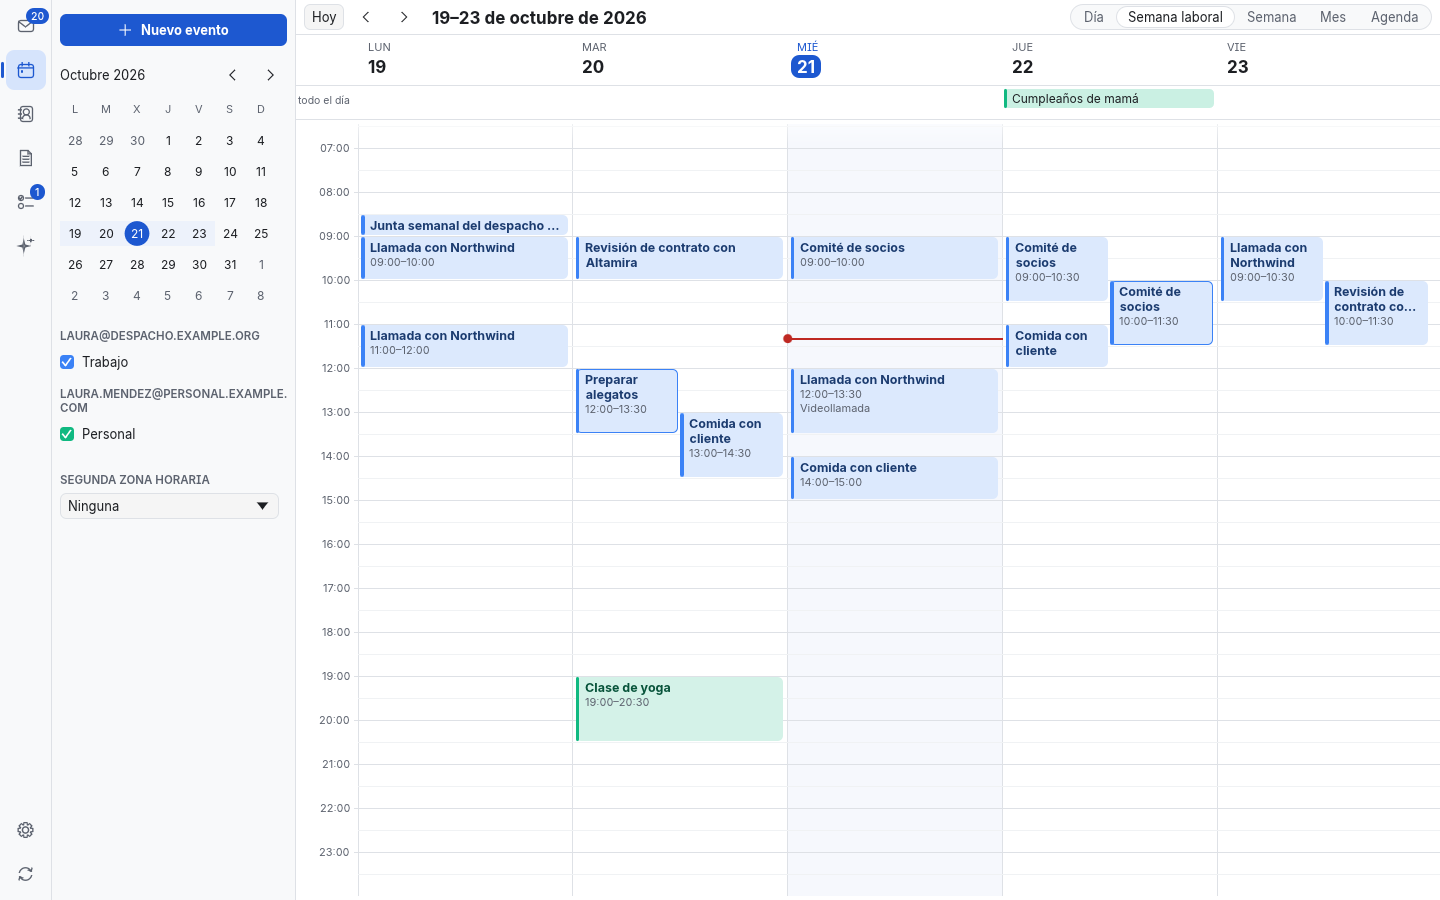
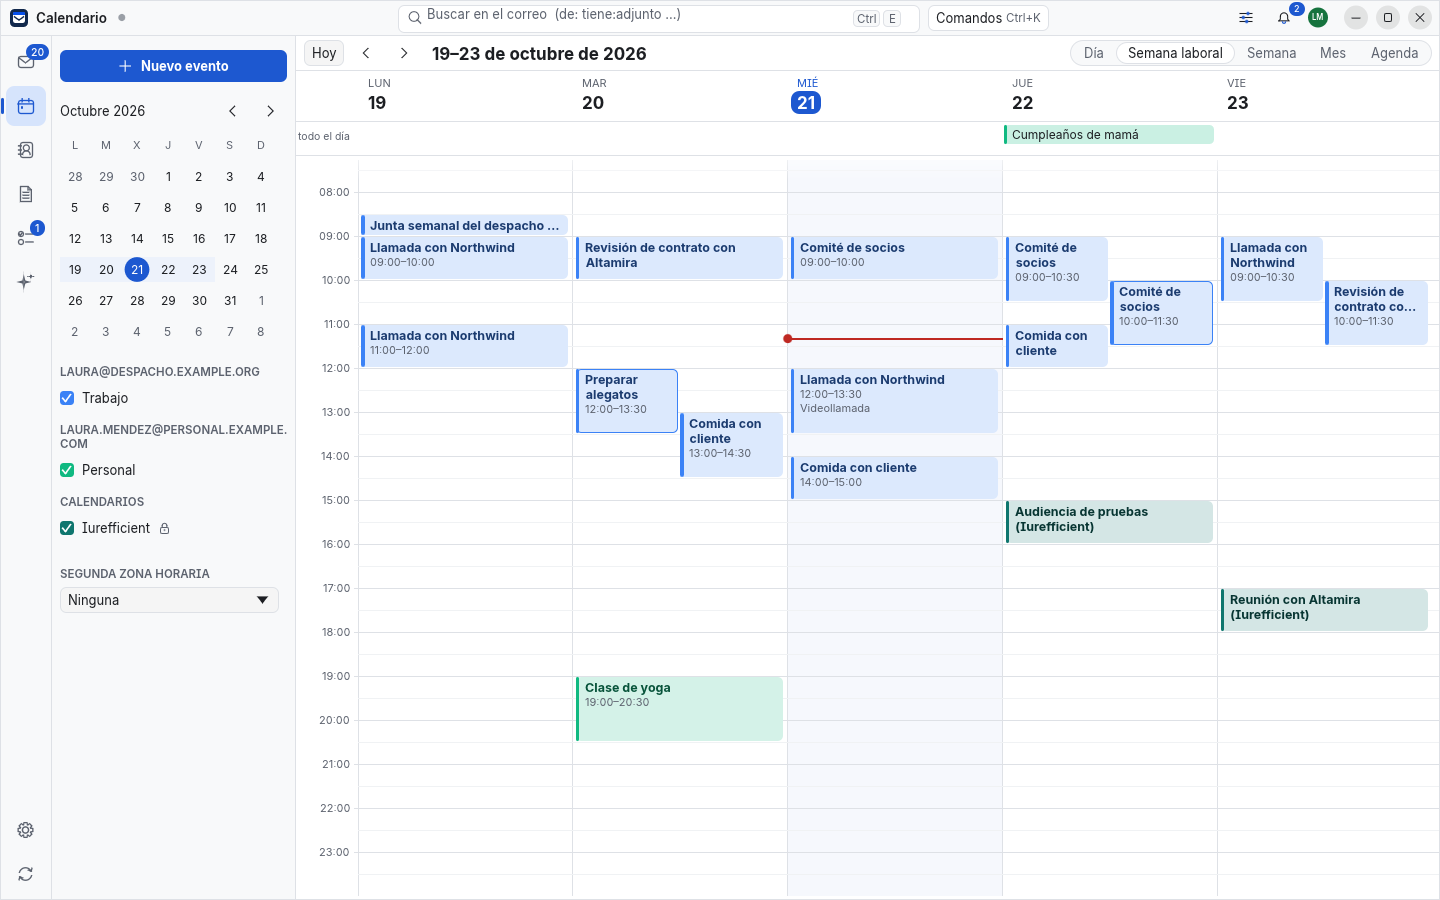
UI-HEADER: barra de título integrada (CSD) con búsqueda, Comandos, menú de tema/densidad y botones de ventana
Una fila de 40/36/32 px: marca, título de carpeta o módulo, punto de
sincronización, búsqueda y Comandos al centro, menú rápido, campana y
avatar de Iurefficient, y botones de ventana (Adwaita según button-layout
del portal XDG; Windows rectangulares; macOS con los semáforos nativos).
Arrastre, doble clic, menú de ventana, bordes de cambio de tamaño y borde
de 1 px. Preferencia «Barra de título del sistema» e
IUREDESK_NATIVE_DECORATIONS. Pruebas kittest y de button-layout; capturas.

diff --git a/crates/ui/src/header.rs b/crates/ui/src/header.rs
@@ -165,7 +165,7 @@ fn press(ctx: &Context, b: WindowButton) {
 
 /// Lo que se ve en el centro: ancho guardado del grupo de la derecha (del cuadro anterior).
 fn right_width_id() -> Id {
-    Id::new("iuredesk-header-right-width")
+    Id::unique("iuredesk-header-right-width")
 }
 
 /// La barra. `full` = con búsqueda y «Comandos» (no en la bienvenida).
@@ -179,7 +179,8 @@ pub(crate) fn show(app: &mut DeskApp, ui: &mut Ui, full: bool) {
     let frame = Frame::new().fill(c.surface_alt).inner_margin(Margin { left: 10, right: right_pad, top: 0, bottom: 0 });
     egui::Panel::top("app-header").exact_size(h).resizable(false).frame(frame).show(ui, |ui| {
         let inner = ui.max_rect();
-        let whole = Rect::from_min_max(pos2(inner.left() - 10.0, inner.top()), pos2(inner.right() + 8.0, inner.bottom()));
+        let whole =
+            Rect::from_min_max(pos2(inner.left() - 10.0, inner.top()), pos2(inner.right() + 8.0, inner.bottom()));
         // El fondo arrastra la ventana; los controles se agregan después y tienen prioridad.
         if chrome.is_some() {
             drag_area(ui, whole);
@@ -204,7 +205,11 @@ pub(crate) fn show(app: &mut DeskApp, ui: &mut Ui, full: bool) {
         }
         app_mark(&mut left, h);
         let title = app.header_title();
-        left.add(egui::Label::new(RichText::new(&title).font(theme::semibold_font(&ctx, 13.5)).color(c.text)).selectable(false).truncate());
+        left.add(
+            egui::Label::new(RichText::new(&title).font(theme::semibold_font(&ctx, 13.5)).color(c.text))
+                .selectable(false)
+                .truncate(),
+        );
         sync_dot(app, &mut left);
         let left_end = left.min_rect().right();
 
@@ -248,7 +253,7 @@ pub(crate) fn show(app: &mut DeskApp, ui: &mut Ui, full: bool) {
 /// Fondo de la barra: arrastrar mueve, doble clic maximiza, clic derecho abre el menú de ventana.
 fn drag_area(ui: &mut Ui, rect: Rect) {
     let ctx = ui.ctx().clone();
-    let resp = ui.interact(rect, Id::new("iuredesk-header-drag"), Sense::click_and_drag());
+    let resp = ui.interact(rect, Id::unique("iuredesk-header-drag"), Sense::click_and_drag());
     a11y::area(&resp, pick("Title bar", "Barra de título"));
     if resp.drag_started_by(PointerButton::Primary) {
         ctx.send_viewport_cmd(ViewportCommand::StartDrag);
@@ -292,7 +297,11 @@ fn app_mark(ui: &mut Ui, h: f32) {
     let card = Rect::from_min_max(at(144.0, 200.0), at(880.0, 840.0));
     p.rect_filled(card, 96.0 * k, Color32::WHITE);
     let band = Rect::from_min_max(at(144.0, 200.0), at(880.0, 376.0));
-    p.rect_filled(band, egui::CornerRadius { nw: (96.0 * k) as u8, ne: (96.0 * k) as u8, sw: 0, se: 0 }, iurefficient_ui::tokens::brand::BLUE);
+    p.rect_filled(
+        band,
+        egui::CornerRadius { nw: (96.0 * k) as u8, ne: (96.0 * k) as u8, sw: 0, se: 0 },
+        iurefficient_ui::tokens::brand::BLUE,
+    );
     p.add(egui::Shape::line(
         vec![at(248.0, 470.0), at(512.0, 660.0), at(776.0, 470.0)],
         Stroke::new((80.0 * k).max(1.2), navy),
@@ -341,11 +350,15 @@ fn search(app: &mut DeskApp, ui: &mut Ui, width: f32) {
         app.mail.focus_search = false;
         ui.memory_mut(|m| m.request_focus(search_id));
     }
-    let shortcut = iuredesk_engine::command::shortcut("mail.search", scheme).and_then(|c| crate::app::keyboard_shortcut(&c));
+    let shortcut =
+        iuredesk_engine::command::shortcut("mail.search", scheme).and_then(|c| crate::app::keyboard_shortcut(&c));
     let (text, hint) = if contacts {
         (&mut app.pim.contact_filter, pick("Find a person", "Buscar una persona"))
     } else {
-        (&mut app.mail.search, pick("Search mail  (from: has:attachment …)", "Buscar en el correo  (de: tiene:adjunto …)"))
+        (
+            &mut app.mail.search,
+            pick("Search mail  (from: has:attachment …)", "Buscar en el correo  (de: tiene:adjunto …)"),
+        )
     };
     let mut field = SearchField::new(text).id_salt(id_salt).hint(hint).desired_width(width);
     if let Some(s) = shortcut {
@@ -371,12 +384,9 @@ fn commands_button(app: &mut DeskApp, ui: &mut Ui) {
     let label = pick("Commands", "Comandos");
     let small = theme::small_font(&ctx);
     let r = ui.add(
-        egui::Button::new((
-            RichText::new(label).color(c.text),
-            RichText::new(&keys).font(small).color(c.text_muted),
-        ))
-        .fill(c.surface)
-        .stroke(Stroke::new(1.0, c.separator)),
+        egui::Button::new((RichText::new(label).color(c.text), RichText::new(&keys).font(small).color(c.text_muted)))
+            .fill(c.surface)
+            .stroke(Stroke::new(1.0, c.separator)),
     );
     a11y::button(&r, label);
     if r.on_hover_text(pick("Everything IureDesk can do", "Todo lo que IureDesk puede hacer")).clicked() {
@@ -528,14 +538,14 @@ pub(crate) fn window_frame(app: &DeskApp, ui: &mut Ui) {
     }
     let r = ctx.content_rect();
     let c = theme::colors(ui);
-    ctx.layer_painter(egui::LayerId::new(egui::Order::Foreground, Id::new("iuredesk-window-border"))).rect_stroke(
+    ctx.layer_painter(egui::LayerId::new(egui::Order::Foreground, Id::unique("iuredesk-window-border"))).rect_stroke(
         r,
         0.0,
         Stroke::new(1.0, c.separator),
         egui::StrokeKind::Inside,
     );
     for (i, (dir, rect, cursor)) in grips(r).into_iter().enumerate() {
-        let resp = ui.interact(rect, Id::new(("iuredesk-resize", i)), Sense::drag());
+        let resp = ui.interact(rect, Id::unique(("iuredesk-resize", i)), Sense::drag());
         if resp.hovered() || resp.dragged() {
             ctx.set_cursor_icon(cursor);
         }
@@ -592,7 +602,10 @@ mod tests {
         assert!(ButtonLayout::parse("tonterías").is_none());
         assert!(ButtonLayout::parse(&"close,".repeat(200)).is_none());
         assert!(ButtonLayout::parse(&":".repeat(40)).is_some_and(|l| l.left.is_empty() && l.right.is_empty()));
-        assert_eq!(WindowChrome::for_this_os(Some("")).layout.right.len(), if cfg!(target_os = "macos") { 0 } else { 3 });
+        assert_eq!(
+            WindowChrome::for_this_os(Some("")).layout.right.len(),
+            if cfg!(target_os = "macos") { 0 } else { 3 }
+        );
     }
 
     #[test]

diff --git a/crates/ui/src/pim.rs b/crates/ui/src/pim.rs
@@ -5,8 +5,7 @@ use egui::{Align, Rect, RichText, Sense, Stroke, Ui, pos2, vec2};
 use iuredesk_model::{ContactId, NoteId, Task, TaskListId};
 use iurefficient_ui::list::{Column, ListState, ListView};
 use iurefficient_ui::{
-    BadgeKind, EmptyState, Icon, PaneKind, SearchField, avatar, badge, fuzzy, icons, pick, section_label, sidebar_item,
-    split, theme,
+    BadgeKind, EmptyState, Icon, PaneKind, avatar, badge, fuzzy, icons, pick, section_label, sidebar_item, split, theme,
 };
 
 use crate::app::DeskApp;
@@ -16,7 +15,7 @@ use crate::widgets::{hairline, info_row, pane_title};
 #[derive(Default)]
 pub struct PimState {
     contact: Option<ContactId>,
-    contact_filter: String,
+    pub(crate) contact_filter: String,
     contact_list: ListState,
     contact_cols: Vec<Column>,
     note: Option<NoteId>,

diff --git a/crates/ui/src/app.rs b/crates/ui/src/app.rs
@@ -792,16 +792,16 @@ pub(crate) fn keyboard_shortcut(c: &Chord) -> Option<egui::KeyboardShortcut> {
     let key = Key::from_name(&name)?;
     let mut m = Modifiers::NONE;
     if c.command || (c.ctrl && !cfg!(target_os = "macos")) {
-        m = m | Modifiers::COMMAND;
+        m |= Modifiers::COMMAND;
     }
     if c.ctrl && cfg!(target_os = "macos") {
-        m = m | Modifiers::CTRL;
+        m |= Modifiers::CTRL;
     }
     if c.shift {
-        m = m | Modifiers::SHIFT;
+        m |= Modifiers::SHIFT;
     }
     if c.alt {
-        m = m | Modifiers::ALT;
+        m |= Modifiers::ALT;
     }
     Some(egui::KeyboardShortcut::new(m, key))
 }

diff --git a/crates/ui/tests/app.rs b/crates/ui/tests/app.rs
@@ -183,8 +183,8 @@ fn integrated_header_has_named_window_controls_and_a_drag_area() {
     // La zona de arrastre ocupa la barra de lado a lado, arriba de todo.
     let drag = h.get_by_label("Barra de título").rect();
     assert!(drag.top() <= 1.0 && drag.width() >= 1270.0, "{drag:?}");
-    // La búsqueda de la barra filtra el correo.
-    h.get_by_label("Buscar en el correo  (de: tiene:adjunto …)").click();
+    // La búsqueda de la barra filtra el correo; se enfoca con el atajo del esquema (Ctrl+E).
+    h.key_press_modifiers(Modifiers::COMMAND, Key::E);
     h.run();
     h.event(egui::Event::Text("Northwind".into()));
     settle(&mut h);

diff --git a/crates/ui/src/mail.rs b/crates/ui/src/mail.rs
@@ -11,8 +11,8 @@ use iuredesk_engine::{DensityPref, FolderSel, ListRow};
 use iuredesk_model::{AccountId, FolderRole, MessageEnvelope, MessageId};
 use iurefficient_ui::list::{Column, ListState, ListView, RowStyle};
 use iurefficient_ui::{
-    BadgeKind, Banner, EmptyState, Icon, PaneKind, SearchField, Severity, avatar, badge, icons, pick, section_label,
-    segmented, sidebar_item, split, theme,
+    BadgeKind, Banner, EmptyState, Icon, PaneKind, Severity, avatar, badge, icons, pick, section_label, sidebar_item,
+    split, theme,
 };
 
 use crate::app::DeskApp;

diff --git a/apps/iuredesk/src/main.rs b/apps/iuredesk/src/main.rs
@@ -184,10 +184,7 @@ fn main() -> ExitCode {
         },
     );
 
-    let options = eframe::NativeOptions {
-        viewport,
-        ..Default::default()
-    };
+    let options = eframe::NativeOptions { viewport, ..Default::default() };
     match eframe::run_native("IureDesk", options, Box::new(|_| Ok(Box::new(App { app, _bridge: bridge })))) {
         Ok(()) => ExitCode::SUCCESS,
         Err(e) => {

diff --git a/docs/gaps.md b/docs/gaps.md
@@ -53,3 +53,9 @@ Ids `F<fase>.<n>`. Estado: ☐ pendiente · ◐ en curso · ☑ hecho.
 |---|---|---|
 | F5.1 | `import` (L3): migración local, por flujo, reanudable (`import/checkpoint.json`), con eventos de progreso e informe (recuentos, omitidos con motivo es/en, avisos). Thunderbird (perfiles de `profiles.ini` en Linux/macOS/Windows, `prefs.js`, mbox con `.sbd`/`.msf`, Maildir, `X-Mozilla-Status`/`Keys`, libretas `abook.sqlite` con lector SQLite propio + WAL), Apple Mail (`V<n>`, `.emlx` con plist, `.partial.emlx` con adjuntos reinsertados, buzones anidados y exportados), Outlook `.pst` con `outlook-pst` de Microsoft (correo + carpetas + adjuntos + cabeceras originales, RTF LZFu, contactos, citas con `RRULE`/`EXDATE` y zonas de Windows, tareas, notas; pánicos del lector aislados), Gmail Takeout (`X-Gmail-Labels` → carpetas/etiquetas/banderas), `.mbox`, Maildir++, `.eml`, `.emlx`, `.ics` (eventos/tareas/diario, series con excepciones como objeto crudo), `.vcf` (2.1 QP, 3.0, 4.0, UTF-16); deduplicación `Message-ID` + huella, por `UID` en PIM; funciones de carpeta por nombre en 8 idiomas; `find_installed`/`detect`; ejemplo `import`; `docs/import.md`. Asistente en la UI y comando `app.import` en F4.2. Pendiente: `.ost` modernos y `.msg`, excepciones de citas de Outlook, listas de distribución, calendario `local.sqlite` y `.mab` de Thunderbird, mensajes > 128 MiB por partes | ◐ |
 | F5.2 | Empaquetado 3 SO + CI: icono original (`assets/icons/iuredesk.svg` + variante 16–32 px; `cargo xtask icons` → PNG 16–1024, `.ico`, `.icns` con resvg/icns), `.desktop` (mailto, `text/calendar`, `text/vcard`, `message/rfc822`; Office;Email;Calendar;ContactManagement) y metainfo AppStream; `cargo xtask package <linux\|windows\|macos>` con cargo-packager 0.11.8 (CLI, herramienta de compilación): `.tar.gz` + `.deb` + AppImage, instalador NSIS por usuario que registra `mailto:`/`.eml`/`.ics`/`.vcf` en «Aplicaciones predeterminadas», `.app` + `.dmg` con `mailto` y tipos de documento en `Info.plist`; firma por variables de entorno (Developer ID + notarización; Azure Trusted Signing o certificado `.pfx`); `.github/workflows/ci.yml` (`cargo xtask ci` en Ubuntu 22.04 + compilación y pruebas en Windows y macOS; repos de la suite con `SUITE_REPOS_TOKEN`) y `release.yml` (etiqueta `v*` → paquetes de los 3 SO → borrador preliminar de Release en este repo privado con `SHA256SUMS`); `docs/publicacion.md` con los pasos del dueño. Probado en local: `.tar.gz` 20,3 MB, `.deb` 20,5 MB, AppImage 19,5 MB (arranca). Pendiente: icono incrustado en el `.exe` y en la ventana, abrir `.eml`/`.ics`/`.vcf` por ruta desde la app, Flatpak, primera ejecución real de los flujos y de los instaladores de Windows/macOS | ◐ |
+
+## UI · Interfaz transversal
+
+| Id | Tarea | Estado |
+|---|---|---|
+| UI-HEADER | Barra de título integrada (decoraciones del lado del cliente, `crates/ui/src/header.rs`): una sola fila de 40/36/32 px según la densidad con marca dibujada, título del módulo o carpeta («Entrada · 386»), punto de sincronización, búsqueda al centro (correo; en Contactos filtra personas; desde Calendario/Notas/Tareas lleva al correo) con el atajo del esquema (Ctrl+E en Outlook: Ctrl+F es «Reenviar»), «Comandos Ctrl+K», menú rápido de tema y densidad (sustituye al segmentado), campana y avatar de Iurefficient (salen del riel) y botones de ventana. Linux: redondos estilo Adwaita en el orden de `button-layout` leído del portal XDG (zbus, 300 ms máx.; si no, min/max/cerrar a la derecha); Windows: rectangulares, cerrar rojo; macOS: `fullsize_content_view` con los semáforos del sistema y su hueco. Fondo arrastrable (`StartDrag`), doble clic maximiza, clic derecho = menú de ventana; bordes invisibles de 6 px (esquinas 12) con `BeginResize` y cursores, borde de 1 px del separador si no está maximizada. Preferencia «Barra de título del sistema» (Ajustes → Apariencia, al reiniciar) y `IUREDESK_NATIVE_DECORATIONS=1/0`. Iconos `Minimize`/`Maximize`/`Restore` en el ui-kit. Pruebas: kittest (controles con nombre, zona de arrastre, búsqueda), análisis de `button-layout`, zonas de cambio de tamaño; capturas `header-light/dark/dense.png`, `mail-before-header.png` → `mail-light.png` (`ui_shot --native-decorations`, `--chrome`, `--hc`, `--crop-height`). Sin verificar sin pantalla: arrastre y cambio de tamaño reales en Wayland/X11/Windows/macOS, posición de los semáforos de macOS, sombra en Windows sin decoraciones (no hay; tampoco esquinas redondeadas en Wayland) | ◐ |
